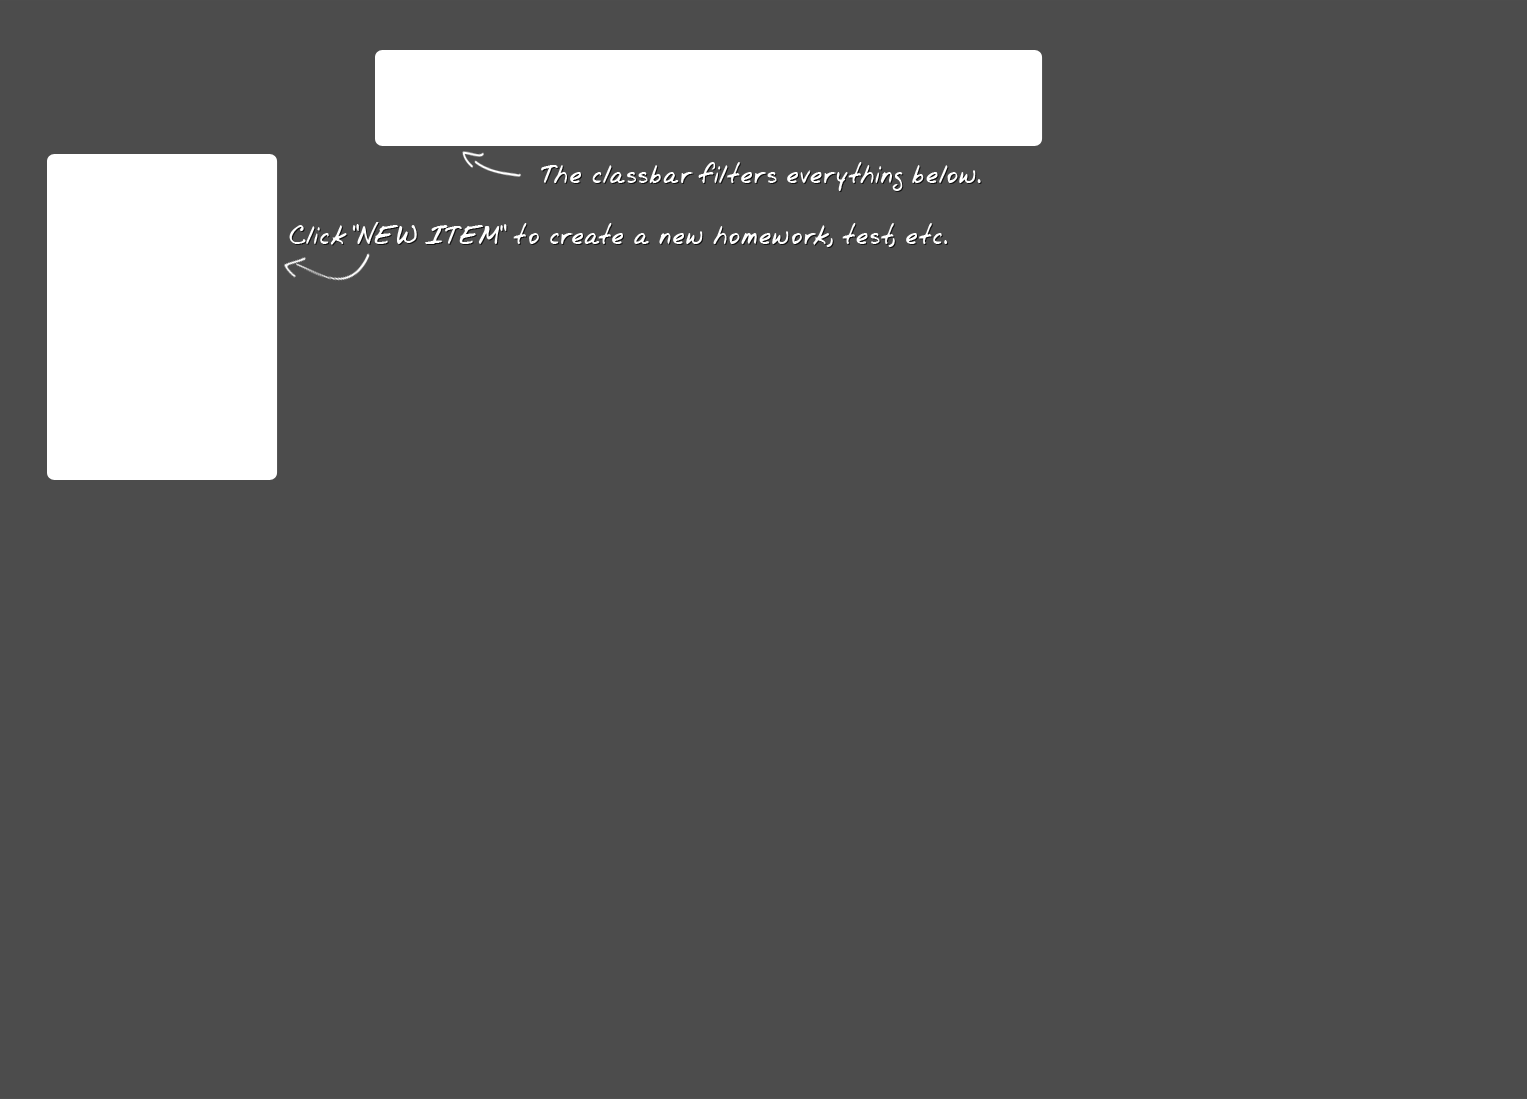
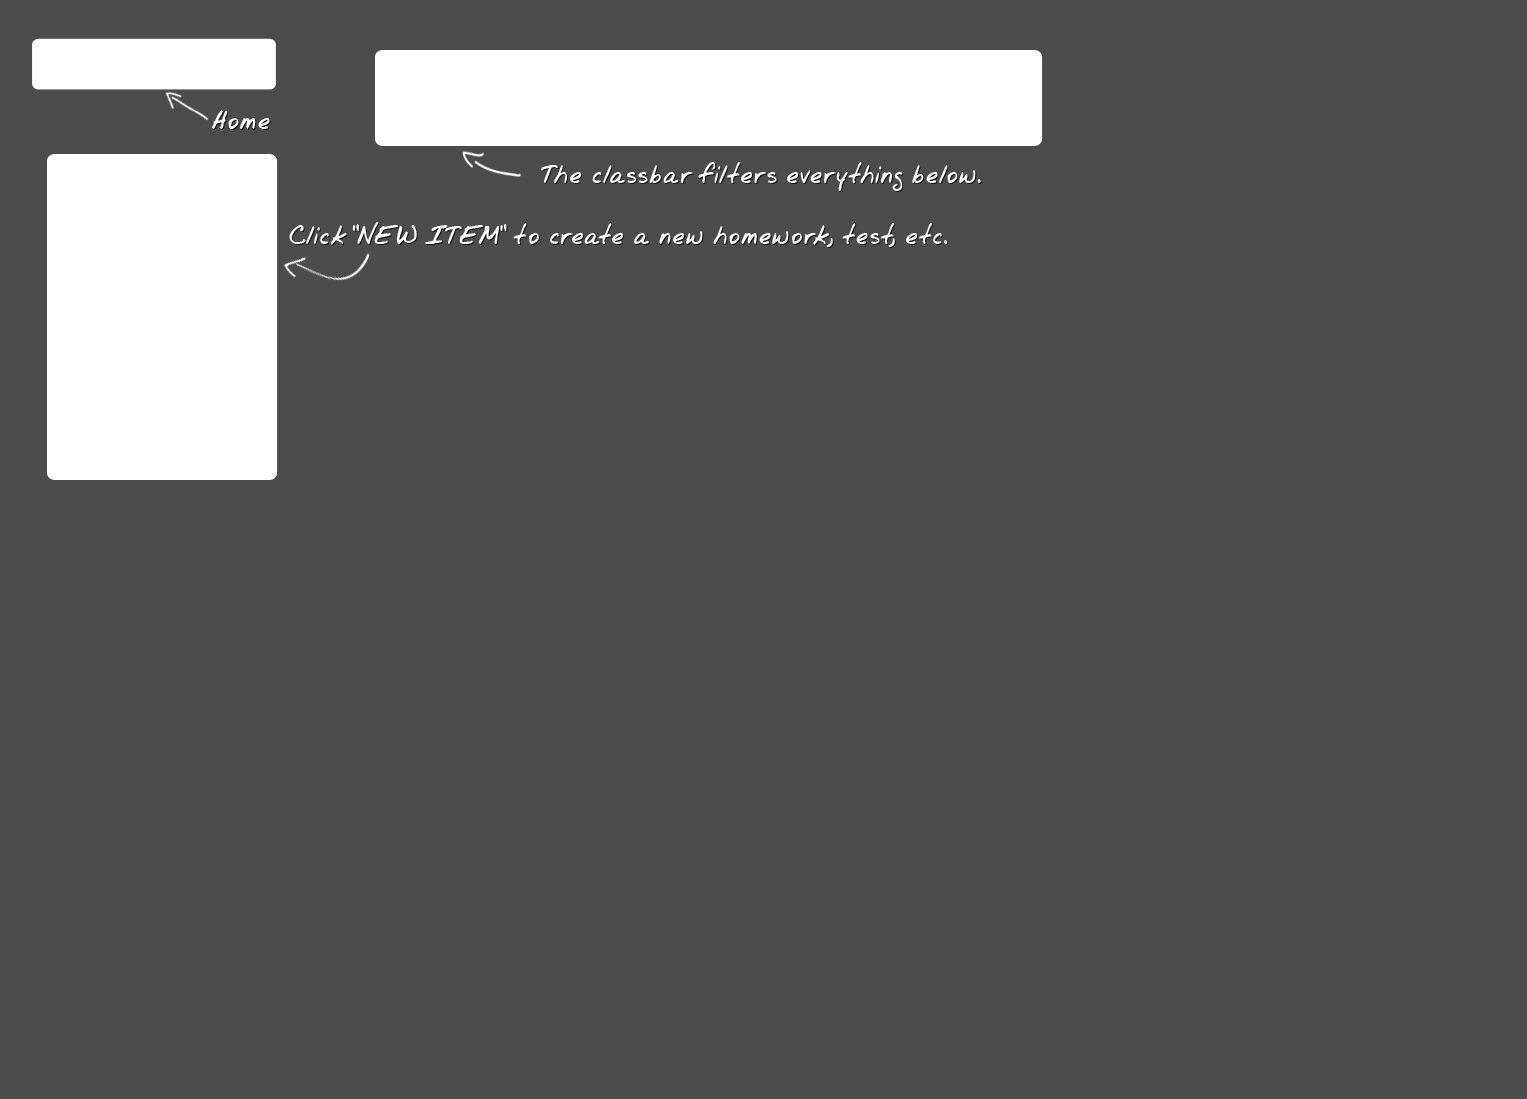
fixed for CHLK-2754 Teacher/Student: Setup :: from iNow - Step 2 > splash screen

Changed region(s): [[0.0, 0.0309, 0.1847, 0.1237]]

diff --git a/Chalkable.Web/assets/sass/partials/main/feed/_list.scss b/Chalkable.Web/assets/sass/partials/main/feed/_list.scss
@@ -12,7 +12,7 @@ $star-size: 18px;
     display: block;
   }
 
-  #sidebar-controls, .classes-bar{
+  #sidebar-controls, .classes-bar, #home-logo-link{
     z-index: 99999;
     position: relative;
   }
@@ -27,6 +27,11 @@ $star-size: 18px;
   .ui-widget-overlay{
     display: none !important;
   }
+}
+
+#home-logo-link{
+  height: 51px;
+  margin: 39px 20px 0 32px;
 }
 
 body:not(.first-login){
